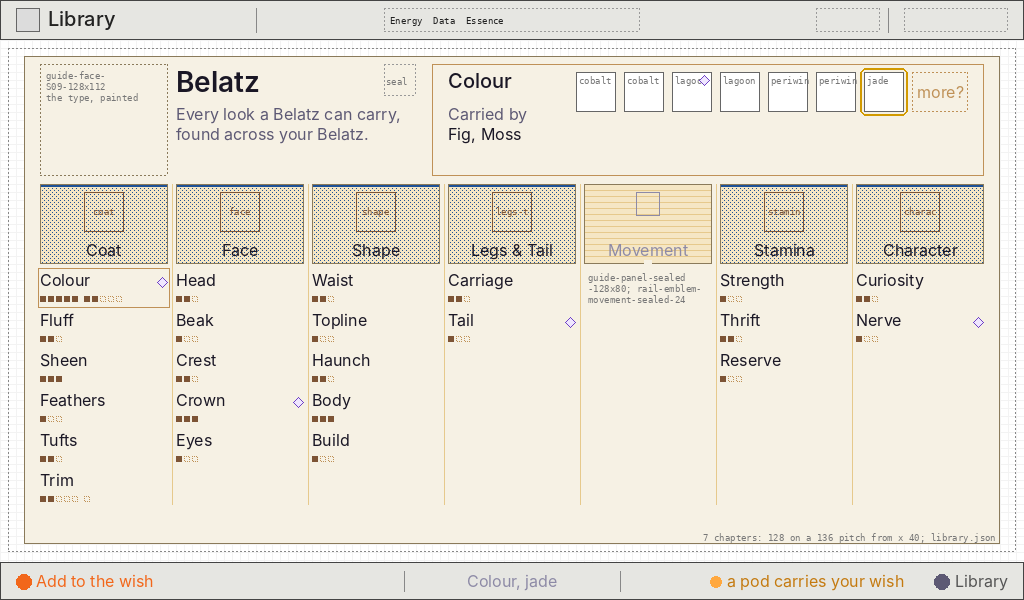
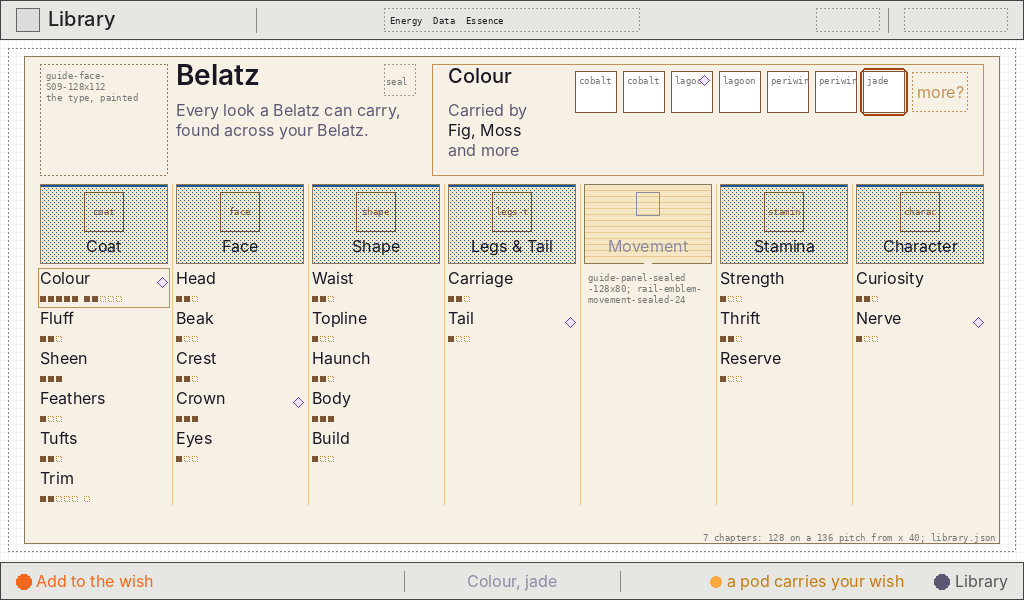
Field guide review rulings: Carried by on two lines, the plates' bark keyline, the rust ring on paper, the page-turn master
Carried by: name cap tops at y 124 and 144 inside x 448 to 568; "and more" in stone ends line 2 with no comma, names dropped until it fits, never a third line. The "more?" slot is dashed (1 px clay, 2 on 2 off). Every look plate gets a 1 px bark keyline at outset 1, drawn by the build, with a paper pixel to the open rule and the ring; added to buildDraws. The fold-out's edge box is only the stand-in for library-foldout-1008x504 while unsigned. Panel words come from pods.json legsTail.heading or the frame's chapter name as written, never recased.

Face spread: the stamp at (832, 112, 120, 120), the type specimen's with no mibi name until a portrait; the clarity line stone, cap top 480, centred on the face plate (x 180 on the stub, 200 at M5); the clan and chapters line dropped; Visit only when faceOf is a living mibi (replaces visitTarget). The page-turn corner is the new master book-corner-turn-24x24, a 16 px bark stand-in until signed, only when the species has a guide, nothing overlapping it.

frame.json focus.ring.onPaper: rust on the Library, the face spread and the guide, same geometry. Wireframes redrawn with text at its cap top, the rust ring, keylines and an overflowing Carried by. The columns rule's x reads "for i from 1" (ASCII for the atlas test).

diff --git a/design/style-guide/station-layouts.md b/design/style-guide/station-layouts.md
@@ -1129,14 +1129,14 @@ The Book is each species' field guide: its face, the looks found so far, its lin
 | **Place stamps** (40×40) and **the frame plate** (104×144) | Where it lives and its body plan, as pictures |
 | **The clarity line** (16 px), under the habit line | That the face is the species' type, not one of the player's mibis (*decided by the UI designer with the owner, 2026-10-09, the field guide and the clarity pass*) |
 | **Page-turn corner** | That the guide waits on the fold-out second spread (Book: the guide spread) |
-| **Stamp label** (120) | The face's stamp: the type specimen's, or the portrayed mibi's (*decided by the UI designer with the owner, 2026-10-09, the field guide and the clarity pass*: was the face mibi's) |
+| **Stamp label** (120) | The face's stamp: the type specimen's (`frame.typeSpecimen`), with no mibi name under it, until a portrait; then the portrayed mibi's (*decided by the UI designer with the owner, 2026-10-09, the field guide and the clarity pass*: was the face mibi's; no name until a portrait *ruled by the UI designer in review, 2026-10-09*) |
 | **Family tree** panel (184×160) | Lineage, read without text |
 | **Pinned wish** (184×112) | The wish, as a plate of its looks |
 
 **Cut:**
 
 - The stub's text lines ("Coat: plain, … · more?") become plates.
-- "clan … · 4 chapters" goes: the clan shows on the spread's rule, and the chapters show as tabs.
+- "clan … · 4 chapters" goes: the clan shows on the spread's rule, and the chapters show on the guide spread. The build stub's line under the name (180, 440) is dropped, not moved (*ruled by the UI designer in review, 2026-10-09*).
 - The plate's lanterns at the page corners go (storybook).
 - The chapter tabs and the look plates move to the guide spread (*decided by the UI designer with the owner, 2026-10-09, the field guide and the clarity pass*).
 
@@ -1169,14 +1169,14 @@ The book is open across the stage. On the left page: the face's mat, with the na
 | **Face or portrait (focal)** | 48, 80, 304, 312 | Mounted as a framed plate. A "released" mark at the plate's foot for a portrayed mibi that went back to the wild |
 | Name label | 88, 408, 224, 40 | 28 px, centred on x 200 (a name is the 28 px role; the Book section's "3×" predates the Inter sizes) |
 | Habit line | 48, 456, 304, 20 | 16 px, centred |
-| Clarity line | 48, 480, 304, 20 | 16 px `stone`, centred on x 200. With no portrait: "A typical Belatz, not one of yours." With a portrait: "Fig, your Belatz, sat for this."; released: "Fig sat for this, now in the wild." (`faceOf`; library.json `faceSpread`) (*decided by the UI designer with the owner, 2026-10-09, the field guide and the clarity pass*) |
+| Clarity line | 48, 480, 304, 20 | 16 px `stone`, cap top at y 480, centred on the face plate: x 180 on the build stub's plate (30, 60, 300, 330), x 200 once the M5 face spread lands (*ruled by the UI designer in review, 2026-10-09*). With no portrait: "A typical Belatz, not one of yours." With a portrait: "Fig, your Belatz, sat for this."; released: "Fig sat for this, now in the wild." (`faceOf`; library.json `faceSpread`) (*decided by the UI designer with the owner, 2026-10-09, the field guide and the clarity pass*) |
 | Place stamps | 376 + 48c, 80 + 48r, 40×40 | Up to four, in two rows |
 | Frame plate | 376, 192, 104, 144 | |
 | Tabs and trait rows | | Moved to the guide spread (*decided by the UI designer with the owner, 2026-10-09, the field guide and the clarity pass*: were the tabs at 536, 64 and the trait rows at 536, 112 + 104r or 112 + 72r) |
-| **Stamp label** | 832, 112, 120, 120 | |
+| **Stamp label** | 832, 112, 120, 120 | At this rect, never the stub's 112 at (886, 406); the type specimen's stamp with no mibi name until a portrait (*ruled by the UI designer in review, 2026-10-09*) |
 | Family tree | 800, 248, 184, 160 | Empty ruled panel until M4 |
 | Pinned wish | 800, 424, 184, 112 | Empty ruled panel until the wish exists; `wish-mark-24` at (808, 432). The stamp label shows the type specimen's stamp until a portrait, then the portrayed mibi's |
-| Page-turn corner | 968, 512, 24, 24 | The spread's corner; only when the species is found and so has a guide |
+| Page-turn corner | 968, 512, 24, 24 | `book-corner-turn-24x24`, a new master the art director signs; only when `book(st, id).guide` is not null (the species found). Until it is signed, the stand-in is "▶" 16 px `bark` centred in the slot, under the same condition. Nothing else overlaps this rect (*ruled by the UI designer in review, 2026-10-09*: was "the spread's page-turn corner, existing") |
 
 ### 6. Interactions
 
@@ -1185,7 +1185,7 @@ The build stub has ← only; the rest arrives with M5.
 | Input | What happens, and how it shows |
 | --- | --- |
 | Pad | Spatial: face, places, frame plate, stamp, tree, wish. ▶ from the right-most target turns to the guide spread (300 ms) |
-| ✓ on the face | `✓ Visit Fig` opens Habitat on a living mibi. On a released one there is no ✓ cap |
+| ✓ on the face | `✓ Visit Fig` opens Habitat only when `faceOf(st, id)` is a living mibi (a portrait whose mibi is not released). The type face and a released portrait have no ✓ cap (*ruled by the UI designer in review, 2026-10-09*: replaces `visitTarget`, which fell back to any living mibi of the species) |
 | ✓ on the wish | `✓ Find a pair` (M4) |
 | ✓ on "more?", the stamp or the tree | Read-only: no ✓ cap |
 | ← | The spread: the way back reads "← Library" (*corrected by the UI designer, 2026-10-09, the owner's decision on the navigation model*: was "Spread") |
@@ -1206,6 +1206,9 @@ The build stub has ← only; the rest arrives with M5.
 - The text field guide becomes tabs and plates.
 - The stamp moves from 112 at (886, 406) to the 120 label at (832, 112).
 - The tree and wish panels are added as empty frames.
+- The "clan … · n chapters" line under the name goes; the clarity line takes its place at y 480.
+- ✓ Visit on the face follows `faceOf`, no longer `visitTarget`.
+- The focus ring on the tome's paper is `rust` (frame.json `focus.ring.onPaper`).
 
 ---
 
@@ -1235,7 +1238,7 @@ The guide shows the species whole: every chapter at once, every trait with how m
 | **One column per chapter**, headed by its **panel** (`guide-panel-<chapter>-<w>x80`, tinted by the species) with the chapter's word | The chapters all at once, a picture naming each before its word |
 | **A trait cell** per trait: its word and **one pip per look**, filled found, dotted unseen, in groups of five | Progress on every cell, without a digit |
 | **A sealed chapter**: a shut panel with its notch, no traits | Locked against found, at a glance |
-| **The detail band**: the open trait's word, its found looks as plates and one dotted "more?" slot, and "Carried by" with your mibis' names | The one place that carries the words; the door to one mibi |
+| **The detail band**: the open trait's word, its found looks as plates and one dashed "more?" slot, and "Carried by" with your mibis' names | The one place that carries the words; the door to one mibi |
 | **Wish marks** (`wish-mark-12`) on a pinned trait and its plate | The wish, where it was pinned |
 | **The seal** (`guide-seal-32`) beside the name | The guide complete; absent until then |
 
@@ -1260,21 +1263,22 @@ The guide shows the species whole: every chapter at once, every trait with how m
 | Region | Rectangle | Notes |
 | --- | --- | --- |
 | Boards | 8, 48, 1008, 504 | |
-| Fold-out | 24, 56, 976, 488 | `library-foldout-1008x504` |
+| Fold-out | 24, 56, 976, 488 | `library-foldout-1008x504`. This edge box is only the registered stand-in for that master while it is unsigned (*ruled by the UI designer in review, 2026-10-09*) |
 | **Face** | 40, 64, 128, 112 | `guide-face-<SNN>-128x112`, placed 1:1 |
 | Name | 176, 64, 200, 36 | 28 px semibold `ink` |
 | Species line | 176, 104, 248, 40 | 16 px `stone`, two lines on 20: "Every look a Belatz can carry," / "found across your Belatz." (the plural is the frame's `species.plural`) |
 | Seal | 384, 64, 32, 32 | `guide-seal-32`, only when `fieldGuide().complete` |
 | Detail band | 432, 64, 552, 112 | 1 px `clay` edge, no fill |
 | Open trait | 448, 68, 120, 28 | 20 px medium `ink` |
-| Carried by | 448, 104, 120, 60 | "Carried by" 16 px `stone`, then the names 16 px `ink` on two lines at most, joined by ", ", ending "and more" when they overflow; "none of yours yet" when none. Each name is a focus target |
-| Plates, up to six slots | from 576, 80: 56×56 on a 64 pitch | `trait-<SNN>-<trait>-<look>-56x56`; the found looks in the frame's order, then the dotted "more?" slot when looks are unseen |
+| Carried by | 448, 104, 120, 60 | "Carried by" 16 px `stone`, cap top y 104; then the names 16 px `ink`, joined by ", ", on at most two lines with cap tops at y 124 and 144, inside x 448 to 568. When they overflow, "and more" (16 px `stone`) ends line 2 with no comma before it, and names are dropped from the end until it fits; never a third line. "none of yours yet" when none. Each name is a focus target (*ruled by the UI designer in review, 2026-10-09*) |
+| Plates, up to six slots | from 576, 80: 56×56 on a 64 pitch | `trait-<SNN>-<trait>-<look>-56x56`; the found looks in the frame's order, then the dashed "more?" slot (a 1 px `clay` edge, 2 on and 2 off) when looks are unseen |
 | Plates, seven slots or more | from 576, rows at y 72 and 120: 40×40 on a 48 pitch, eight a row | `…-40x40`; the "more?" slot 56×40 so its word stays whole. Ten looks and "more?" (S09 Colour) take one row of eight and one of three |
-| Open look | a 2 px `clay` rule 2 px under its plate | The look "Carried by" names: the plate under the ring, or the last one it was on; on arrival the pinned look, else the first found |
+| Plate keyline | x − 1, y − 1, w + 2, h + 2 | 1 px `bark` round every look plate, at 56 and at 40, drawn by the build whether or not the plate's master is signed. None on "more?", the face or the panels. `bark`, because `clay` means open state. 1 px of paper stays between it and the open rule and between it and the ring (*ruled by the UI designer in review, 2026-10-09*) |
+| Open look | a 2 px `clay` rule 2 px under its plate (y + h + 2) | The look "Carried by" names: the plate under the ring, or the last one it was on; on arrival the pinned look, else the first found. The ring on that plate may cover its rule |
 | Columns, one to seven chapters | 128 wide on a 136 pitch, from x0 | x0 = ⌊(512 − (136n − 8) / 2) / 8⌋ × 8: 40 for seven |
 | Columns, eight chapters | 112 wide on a 120 pitch, from x 32 | 952 px; never a scroll. More than eight comes back to the UI designer |
 | Column rules | x0 + pitch × i − 4, y 184 to 504 | 1 px `sand` |
-| Panel | x, 184, w, 80 | See the tint rule below; the chapter's word 16 px `ink`, centred, at y 240 |
+| Panel | x, 184, w, 80 | See the tint rule below; the chapter's word 16 px `ink`, centred, at y 240: pods.json `strings.legsTail.heading` for legs-tail, otherwise the frame's `chapters[].name` as written; the build never recases (*ruled by the UI designer in review, 2026-10-09*) |
 | Trait cell | x, 272 + 40r, w, 32 | The word 16 px `ink`; `wish-mark-12` at (x + w − 12, y + 4) when a look of it is pinned; the pips at y + 24. At most six rows (S09 Coat), the sixth ending at y 504 |
 | Pips | 6×6 on an 8 pitch, 4 px more between groups of five | Pip k at x + 8k + 4⌊k / 5⌋. Found: a `bark` rect. Unseen: `guide-pip-unseen-6x6`. Ten looks take 84 px, inside the 112 column |
 | Open cell | x − 2, y − 4, w + 4, 40 | 1 px `clay` edge: the trait in the detail band; the ring sits on top of it when it has the focus |
@@ -1296,6 +1300,7 @@ The guide shows the species whole: every chapter at once, every trait with how m
 | ✓ on a carrier name | `✓ Visit Fig`, the context "Fig carries this look": a jump to Habitat on that mibi, where ← reads Home |
 | The notice | "a pod carries your wish" when `wishCarriers(st, id).pods` is not empty; otherwise none |
 | ← | "← Library", from either spread |
+| The ring | `rust` on the paper (frame.json `focus.ring.onPaper`), the same geometry, on the Library, the face spread and the guide spread (*ruled by the UI designer in review, 2026-10-09*) |
 
 ### Bound to the rules
 
@@ -1305,7 +1310,7 @@ Every field comes from `prototypes/station/src/library.mjs` and the frame; nothi
 - The seal: `fieldGuide().complete`. The guide exists only when `book(st, id).guide` is not null (the species found).
 - The wish marks and actions: `wishOf`, `wishPinBlock`, `wishPin`, `wishUnpin`; the notice: `wishCarriers`.
 - "Carried by": the mibis of the species, not released, whose read chapters hold the trait's chapter and whose `chapterLooks` give the look: the test `wishCarriers` already applies to pinned looks, generalised to any look and exported beside it as a pure function. Pods are not listed.
-- The face spread's clarity line: `faceOf`; its ✓ Visit: `visitTarget`, unchanged.
+- The face spread's clarity line: `faceOf`; its ✓ Visit only when `faceOf(st, id)` is a living mibi, with no ✓ cap for the type face (*ruled by the UI designer in review, 2026-10-09*: replaces `visitTarget`, unchanged).
 
 ### Masters for the guide
 
@@ -1319,6 +1324,7 @@ Placed 1:1 at these sizes, never scaled or recoloured; the art director signs th
 | `guide-panel-sealed-128x80`, `guide-panel-sealed-112x80` | 128×80, 112×80 | A shut panel: slats and the 8×4 notch; no tint |
 | `guide-face-<SNN>-128x112` | 128×112 | One per species, S01 to S16: the type, head and shoulders, painted from the type specimen |
 | `guide-seal-32` | 32×32 | The guide complete |
+| `book-corner-turn-24x24` | 24×24 | The face spread's page-turn corner at (968, 512), only when the species has a guide. Stand-in until signed: "▶" 16 px `bark` centred |
 | `guide-pip-unseen-6x6` | 6×6 | A dotted hollow pip in `clay` |
 | `wish-mark-12` | 12×12 | A pinned look, on its cell and its plate |
 | `wish-mark-24` | 24×24 | The pinned wish panel's corner, on the face spread |
@@ -1326,7 +1332,7 @@ Placed 1:1 at these sizes, never scaled or recoloured; the art director signs th
 | `trait-<SNN>-<trait>-<look>-56x56`, `…-40x40` | 56×56, 40×40 | The look plates, rendered at their size |
 | `rail-emblem-<chapter>-sealed-24x24` | 24×24 | Existing; on the sealed panel |
 
-The tint has no master: the build draws it from the palette.
+The tint has no master: the build draws it from the palette. Nor do the plates' `bark` keylines, the dashed "more?" edge, or, while their masters are unsigned, the fold-out's edge box and the ▶ stand-in.
 
 ### Changes from the current build
 

diff --git a/design/style-guide/station-screens.md b/design/style-guide/station-screens.md
@@ -272,14 +272,14 @@ One device, four functions, and each communicates its own mood. Type, counters, 
 **Purpose.** Each species' field guide: its frame, the looks found so far, lineage and wishes. **Reads first:** the species' portrait and name.
 
 - **Living window.** The species portrait: one resident of that species in rich treatment, doing its habit (dig, glow, puff), mounted on the page as a framed plate.
-- **Instrument.** Two spreads. The face spread: the species' places as stamps; the frame once, as a pressed plate; the stamp at 120 px on a plain plate (the type specimen's until a portrait); the family tree panel under the stamp; the pinned wish; a page-turn corner to the guide. The guide spread, the fold-out: every chapter as a column, every look found and still to find (Guide, below) (*decided by the UI designer with the owner, 2026-10-09, the field guide and the clarity pass*: was one tab per chapter and the look plates on the face spread).
+- **Instrument.** Two spreads. The face spread: the species' places as stamps; the frame once, as a pressed plate; the stamp at 120 px on a plain plate (the type specimen's, with no mibi name, until a portrait); the family tree panel under the stamp; the pinned wish; a page-turn corner to the guide (`book-corner-turn-24x24`, only when the species has a guide). The guide spread, the fold-out: every chapter as a column, every look found and still to find (Guide, below) (*decided by the UI designer with the owner, 2026-10-09, the field guide and the clarity pass*: was one tab per chapter and the look plates on the face spread).
 - **The clarity line.** Under the habit line: "A typical Belatz, not one of yours."; with a portrait, "Fig, your Belatz, sat for this."
 - **Composition.** Portrait at the left (about 300×310); guide pages centre; stamp, tree and wishes right.
 - **Lively / quiet.** Lively: the portrait. Quiet: the guide, the tree.
 - **Light.** Warm on the portrait; cool, even light on the archive.
 - **Palette.** The tome's cream, the species' hues on plates.
 - **Type.** 3× species name on a paper label, with one 2× habit line under it; no paragraphs.
-- **Chrome.** `✓ Visit Fig` on a mibi, `✓ Add to the wish` on a look, `✓ Find a pair` on a wish, `← Library` (*corrected by the UI designer, 2026-10-09, the owner's decision on the navigation model*: was `← Spread`). `✓ Visit Fig` is a jump: on Habitat, ← reads Home.
+- **Chrome.** `✓ Visit Fig` on a mibi (on the face spread only when the face is a living mibi's portrait: the type face has no ✓ cap), `✓ Add to the wish` on a look, `✓ Find a pair` on a wish, `← Library` (*corrected by the UI designer, 2026-10-09, the owner's decision on the navigation model*: was `← Spread`). `✓ Visit Fig` is a jump: on Habitat, ← reads Home.
 - **Motion.** Tabs turn in 200 ms; the portrait lives.
 
 **Decided 2026-10-08 (owner; `art/concept-station/library-book/`, BK-D-r2-a1).** The Book is accepted. The portrait is mounted as a framed plate, not painted straight onto the page; the family tree panel stays under the stamp at about its present size (about 180×160 px); the name sits on a paper label with the habit line under it. For the master, the label's copy and the names go through the copywriter's rules and this guide's type first: consistent case (the owner flagged a mix of lower and upper case) and the typeface.
@@ -311,10 +311,11 @@ One device, four functions, and each communicates its own mood. Type, counters, 
 - **Columns are chapters.** One panel per chapter, shared by every species and tinted by it: one pixel in eight of the species' pod pigment on paper, with a 2 px band of it across the top. Up to seven chapters 128 wide on a 136 pitch; eight 112 wide on a 120 pitch; never a scroll.
 - **Progress on every trait.** One pip per look, filled found, dotted unseen, in groups of five. No digits.
 - **Sealed.** A shut panel with its notch and no traits.
-- **One detail band.** The open trait's looks as plates and one dotted "more?", "Carried by" with your mibis' names.
+- **One detail band.** The open trait's looks as plates and one dashed "more?", each plate keylined in `bark`, "Carried by" with your mibis' names on two lines at most.
 - **Wish.** A mark on a pinned trait and its plate; the pinned wish itself stays on the face spread.
 - **Palette.** The tome's paper; colour only in the tints, the plates and the face.
 - **Chrome.** `✓ Add to the wish` or `✓ Take it off the wish` on a plate; `✓ Visit Fig` on a name (a jump: on Habitat, ← reads Home); read-only on a cell; `← Library`.
+- **Focus.** On the tome's paper the ring is `rust`, the same geometry (frame.json `focus.ring.onPaper`), on the Library, the face spread and the guide.
 - **Motion.** The page turns in 300 ms.
 
 **Pass when**
